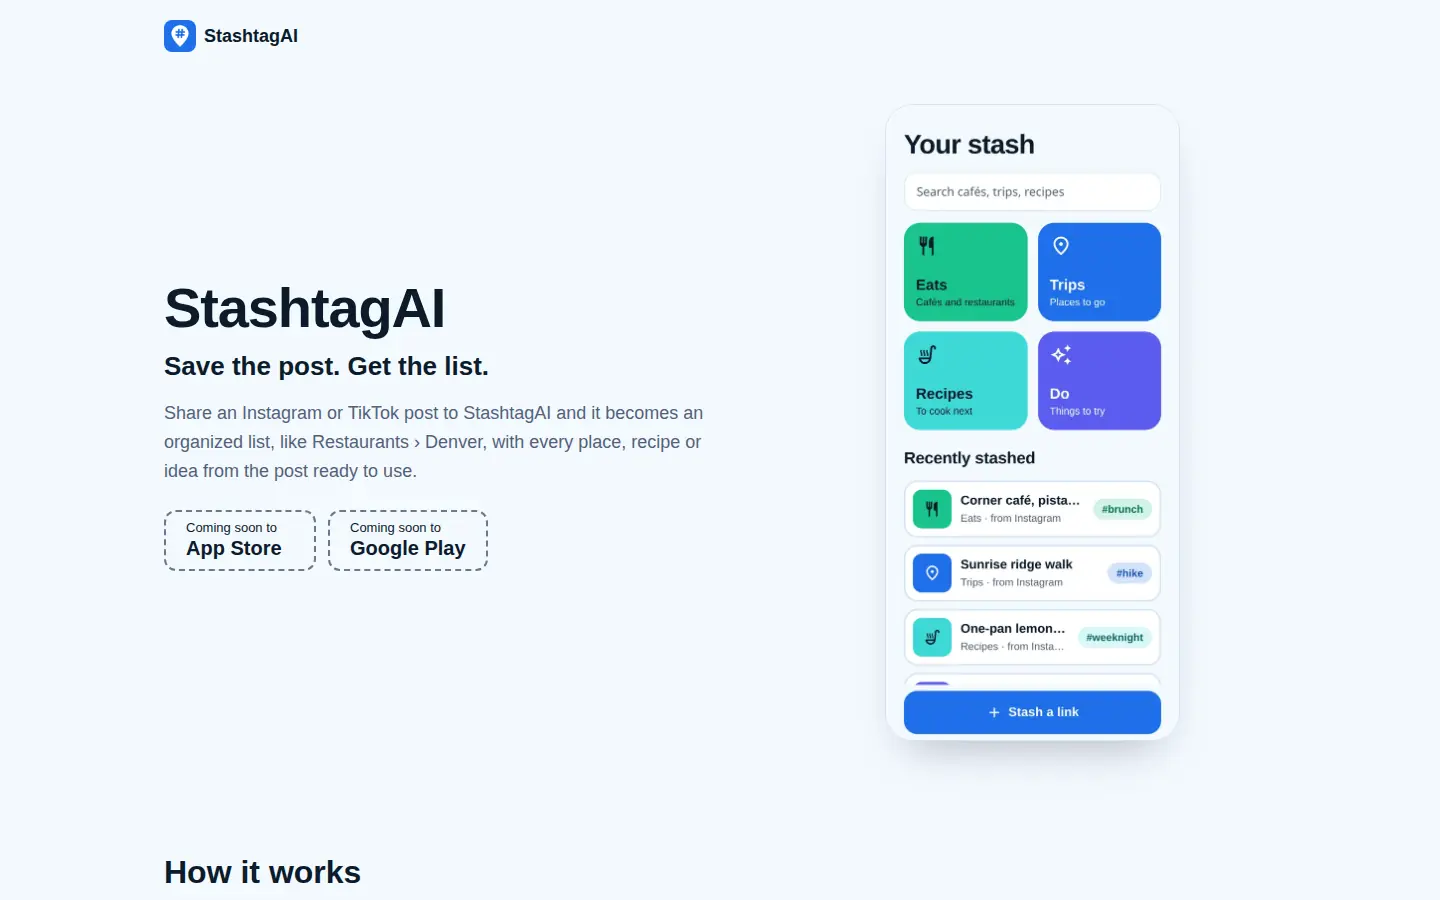
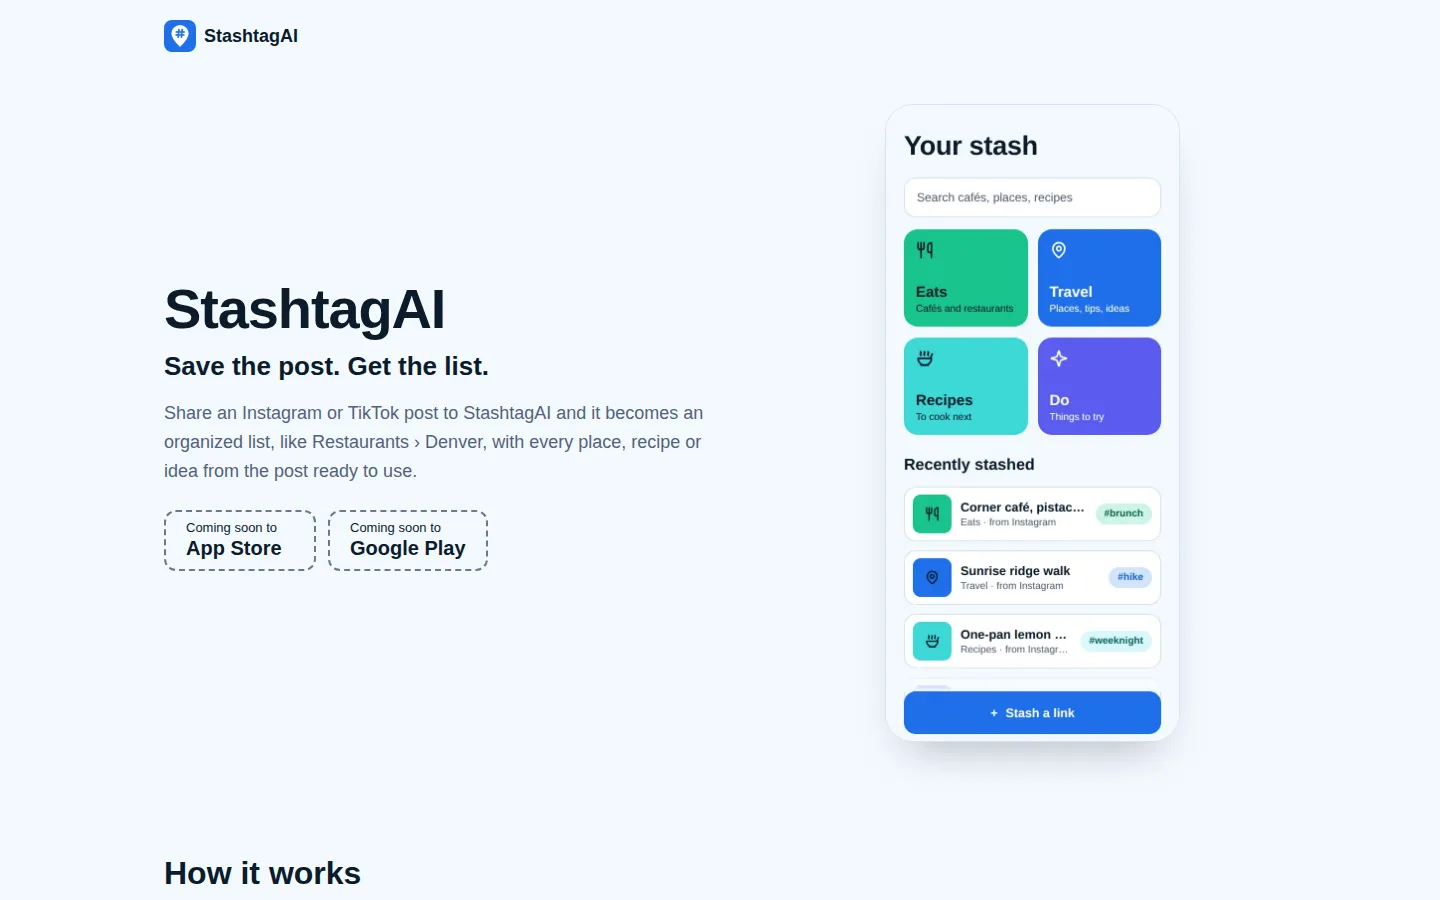
Landing: rename Trips to Travel in hero shot and alt text; guard category names (HAN-98)
The app renamed the Trips category to Travel (20261118035503). The hero
screenshot and its alt text still said Trips. The screenshot had no source,
so it is now rendered from og/home.html, using the app's current tile names and
subtitles. The alt text moves to content.mjs, and the docs screenshots are
re-captured.

check.mjs now fails if content.categories drifts from the app's KIND_LABELS,
if a tile in og/home.html or the hero alt text uses a name that isn't current,
or if a retired name (Trips) appears anywhere in dist/.

diff --git a/landing/og/home.html b/landing/og/home.html
@@ -1,0 +1,260 @@
+<!doctype html>
+<!-- Source for public/assets/home-{light,dark}.webp and home-light.png (295×640 @2x). Re-render with the
+     command in ../README.md. Tile names and subtitles are the app's KIND_LABELS / KIND_SUBTITLES
+     (src/lib/types.ts); check.mjs fails if this file or the hero alt text drifts from them. -->
+<html lang="en">
+  <head>
+    <meta charset="utf-8">
+    <style>
+      :root {
+        --bg: #f4f9ff;
+        --card: #ffffff;
+        --text: #0b1b2b;
+        --muted: #52627a;
+        --border: #d5e3f5;
+        --eats: #19c48d;
+        --travel: #1f6feb;
+        --recipes: #3dd9d6;
+        --do: #5a5cf0;
+        --on-eats: #0b1b2b;
+        --on-travel: #ffffff;
+        --on-recipes: #0b1b2b;
+        --on-do: #ffffff;
+        --chip-eats: #d0f4e8;
+        --chip-eats-text: #0a6b4f;
+        --chip-travel: #d2e5fe;
+        --chip-travel-text: #1a64d6;
+        --chip-recipes: #d8f8fb;
+        --chip-recipes-text: #0b6464;
+        --fab-text: #ffffff;
+      }
+      @media (prefers-color-scheme: dark) {
+        :root {
+          --bg: #0a1420;
+          --card: #122233;
+          --text: #eaf3ff;
+          --muted: #93a6bf;
+          --border: #1f3550;
+          --eats: #3de0a6;
+          --travel: #4c9bff;
+          --recipes: #5cebea;
+          --do: #8c8dff;
+          --on-eats: #0b1b2b;
+          --on-travel: #0b1b2b;
+          --on-recipes: #0b1b2b;
+          --on-do: #0b1b2b;
+          --chip-eats: #1a4048;
+          --chip-eats-text: #3de0a6;
+          --chip-travel: #1b3555;
+          --chip-travel-text: #4c9bff;
+          --chip-recipes: #1e4251;
+          --chip-recipes-text: #5cebea;
+          --fab-text: #0b1b2b;
+        }
+      }
+      html,
+      body {
+        margin: 0;
+        width: 295px;
+        height: 640px;
+        overflow: hidden;
+      }
+      body {
+        position: relative;
+        padding: 26px 18px 0;
+        box-sizing: border-box;
+        background: var(--bg);
+        color: var(--text);
+        font-family: 'Liberation Sans', Arial, 'Helvetica Neue', sans-serif;
+      }
+      h1 {
+        margin: 0 0 16px;
+        font-size: 27px;
+        font-weight: 700;
+        letter-spacing: -0.01em;
+      }
+      .search {
+        height: 38px;
+        padding: 0 12px;
+        display: flex;
+        align-items: center;
+        border: 1px solid var(--border);
+        border-radius: 12px;
+        background: var(--card);
+        color: var(--muted);
+        font-size: 12px;
+      }
+      .tiles {
+        margin: 12px 0 0;
+        display: grid;
+        grid-template-columns: 1fr 1fr;
+        gap: 11px 10px;
+      }
+      .tile {
+        height: 98px;
+        padding: 12px;
+        box-sizing: border-box;
+        display: flex;
+        flex-direction: column;
+        border-radius: 14px;
+      }
+      .tile svg {
+        width: 18px;
+        height: 18px;
+      }
+      .tile b {
+        margin-top: auto;
+        font-size: 15px;
+      }
+      .tile span {
+        margin-top: 3px;
+        font-size: 10px;
+      }
+      .eats { background: var(--eats); color: var(--on-eats); }
+      .travel { background: var(--travel); color: var(--on-travel); }
+      .recipes { background: var(--recipes); color: var(--on-recipes); }
+      .do { background: var(--do); color: var(--on-do); }
+      h2 {
+        margin: 22px 0 12px;
+        font-size: 16px;
+      }
+      .row {
+        height: 55px;
+        margin-bottom: 9px;
+        padding: 0 8px;
+        box-sizing: border-box;
+        display: flex;
+        align-items: center;
+        gap: 9px;
+        border: 1.5px solid var(--border);
+        border-radius: 12px;
+        background: var(--card);
+      }
+      .thumb {
+        flex: none;
+        width: 39px;
+        height: 39px;
+        display: grid;
+        place-items: center;
+        border-radius: 8px;
+        color: #0b1b2b;
+      }
+      .thumb svg {
+        width: 15px;
+        height: 15px;
+      }
+      .row div {
+        flex: 1;
+        min-width: 0;
+      }
+      .row b,
+      .row small {
+        display: block;
+        white-space: nowrap;
+        overflow: hidden;
+        text-overflow: ellipsis;
+      }
+      .row b {
+        font-size: 12.5px;
+      }
+      .row small {
+        margin-top: 3px;
+        color: var(--muted);
+        font-size: 10px;
+      }
+      .chip {
+        flex: none;
+        padding: 5px 9px;
+        border-radius: 999px;
+        font-size: 10px;
+        font-weight: 700;
+      }
+      .fab {
+        position: absolute;
+        left: 18px;
+        right: 18px;
+        bottom: 7px;
+        height: 43px;
+        display: flex;
+        align-items: center;
+        justify-content: center;
+        gap: 8px;
+        border-radius: 12px;
+        background: var(--travel);
+        color: var(--fab-text);
+        font-size: 12.5px;
+        font-weight: 700;
+      }
+      .fab::before {
+        content: '';
+        position: absolute;
+        left: -18px;
+        right: -18px;
+        bottom: 43px;
+        height: 28px;
+        background: linear-gradient(transparent, var(--bg));
+      }
+      svg {
+        fill: none;
+        stroke: currentColor;
+        stroke-width: 2.2;
+        stroke-linecap: round;
+        stroke-linejoin: round;
+      }
+    </style>
+  </head>
+  <body>
+    <svg width="0" height="0" style="position: absolute">
+      <symbol id="eats" viewBox="0 0 24 24">
+        <path d="M3 2v7c0 1.1.9 2 2 2h4a2 2 0 0 0 2-2V2" /><path d="M7 2v20" />
+        <path d="M21 15V2a5 5 0 0 0-5 5v6c0 1.1.9 2 2 2h3Zm0 0v7" />
+      </symbol>
+      <symbol id="travel" viewBox="0 0 24 24">
+        <path d="M20 10c0 5-5.5 10.2-7.4 11.8a1 1 0 0 1-1.2 0C9.5 20.2 4 15 4 10a8 8 0 0 1 16 0" />
+        <circle cx="12" cy="10" r="3" />
+      </symbol>
+      <symbol id="recipes" viewBox="0 0 24 24">
+        <path d="M12 21a9 9 0 0 0 9-9H3a9 9 0 0 0 9 9Z" /><path d="M7 21h10" /><path d="M19.5 12 22 6" />
+        <path d="M16.25 3c.27.1.8.53.75 1.36-.06.83-.93 1.2-1 2.02-.05.78.34 1.24.73 1.62" />
+        <path d="M11.25 3c.27.1.8.53.74 1.36-.05.83-.93 1.2-.98 2.02-.06.78.33 1.24.72 1.62" />
+        <path d="M6.25 3c.27.1.8.53.75 1.36-.06.83-.93 1.2-1 2.02-.05.78.34 1.24.74 1.62" />
+      </symbol>
+      <symbol id="do" viewBox="0 0 24 24">
+        <path d="M9.9 15.5a2 2 0 0 0-1.4-1.4l-6.1-1.6a.5.5 0 0 1 0-1L8.5 9.9a2 2 0 0 0 1.4-1.4l1.6-6.1a.5.5 0 0 1 1 0l1.6 6.1a2 2 0 0 0 1.4 1.4l6.1 1.6a.5.5 0 0 1 0 1l-6.1 1.6a2 2 0 0 0-1.4 1.4l-1.6 6.1a.5.5 0 0 1-1 0z" />
+      </symbol>
+    </svg>
+
+    <h1>Your stash</h1>
+    <div class="search">Search cafés, places, recipes</div>
+
+    <div class="tiles">
+      <div class="tile eats"><svg><use href="#eats" /></svg><b>Eats</b><span>Cafés and restaurants</span></div>
+      <div class="tile travel"><svg><use href="#travel" /></svg><b>Travel</b><span>Places, tips, ideas</span></div>
+      <div class="tile recipes"><svg><use href="#recipes" /></svg><b>Recipes</b><span>To cook next</span></div>
+      <div class="tile do"><svg><use href="#do" /></svg><b>Do</b><span>Things to try</span></div>
+    </div>
+
+    <h2>Recently stashed</h2>
+    <div class="row">
+      <span class="thumb eats"><svg><use href="#eats" /></svg></span>
+      <div><b>Corner café, pistachio croissants</b><small>Eats · from Instagram</small></div>
+      <span class="chip" style="background: var(--chip-eats); color: var(--chip-eats-text)">#brunch</span>
+    </div>
+    <div class="row">
+      <span class="thumb travel"><svg><use href="#travel" /></svg></span>
+      <div><b>Sunrise ridge walk</b><small>Travel · from Instagram</small></div>
+      <span class="chip" style="background: var(--chip-travel); color: var(--chip-travel-text)">#hike</span>
+    </div>
+    <div class="row">
+      <span class="thumb recipes"><svg><use href="#recipes" /></svg></span>
+      <div><b>One-pan lemon orzo</b><small>Recipes · from Instagram</small></div>
+      <span class="chip" style="background: var(--chip-recipes); color: var(--chip-recipes-text)">#weeknight</span>
+    </div>
+    <div class="row">
+      <span class="thumb do"><svg><use href="#do" /></svg></span>
+      <div><b>Pottery taster class</b><small>Do · from TikTok</small></div>
+    </div>
+
+    <div class="fab"><span aria-hidden="true">+</span> Stash a link</div>
+  </body>
+</html>

diff --git a/landing/README.md b/landing/README.md
@@ -20,9 +20,10 @@ Android visitors, and the page reads the same without it.
 | `src/content.mjs` | All copy: hero, how it works, features, FAQ. The page, JSON-LD and `llms.txt` are generated from it |
 | `src/styles.css`, `src/platform.js` | Inlined into each page at build time, with CSP hashes computed by the build |
 | `build.mjs` | Writes `dist/`: home page, `/privacy/`, `/terms/`, `/data-deletion/`, `/support/` (from `../legal/*.md`), `404.html`, `robots.txt`, `sitemap.xml`, `llms.txt`, `llms-full.txt` |
-| `check.mjs` | Fails the build if the page and the FAQ JSON-LD drift apart, a store link doesn't match the config, a page has more than one `h1`, `robots.txt` stops allowing an AI crawler, or a colour pair drops below WCAG AA contrast |
+| `check.mjs` | Fails the build if the page and the FAQ JSON-LD drift apart, a store link doesn't match the config, a page has more than one `h1`, `robots.txt` stops allowing an AI crawler, a colour pair drops below WCAG AA contrast, or a category name (copy, hero screenshot or its alt text) no longer matches the app's `KIND_LABELS` |
 | `public/` | Copied as-is: icons, OG image, hero screenshots, `_headers` |
 | `og/og.html` | Source for `public/assets/og.png` (1200×630) |
+| `og/home.html` | Source for the hero screenshots `public/assets/home-{light,dark}.webp` and `home-light.png` |
 
 ## When the store listings go live
 
@@ -91,3 +92,7 @@ harmless.
   `FAQPage` that matches the visible FAQ exactly.
 - To re-render the OG image after a copy change:
   `npx playwright screenshot --viewport-size=1200,630 "file://$PWD/og/og.html" public/assets/og.png`
+- When the app renames a category, update `categories` and `heroAlt` in `src/content.mjs`, add the old name to
+  `retiredCategories`, edit `og/home.html`, and re-render the hero screenshots: open `og/home.html` in Playwright at
+  295×640 with `deviceScaleFactor: 2`, once with `colorScheme: 'light'` and once with `'dark'`, and save as WebP
+  (quality 82), plus a palette PNG of the light one as the `<img>` fallback.
